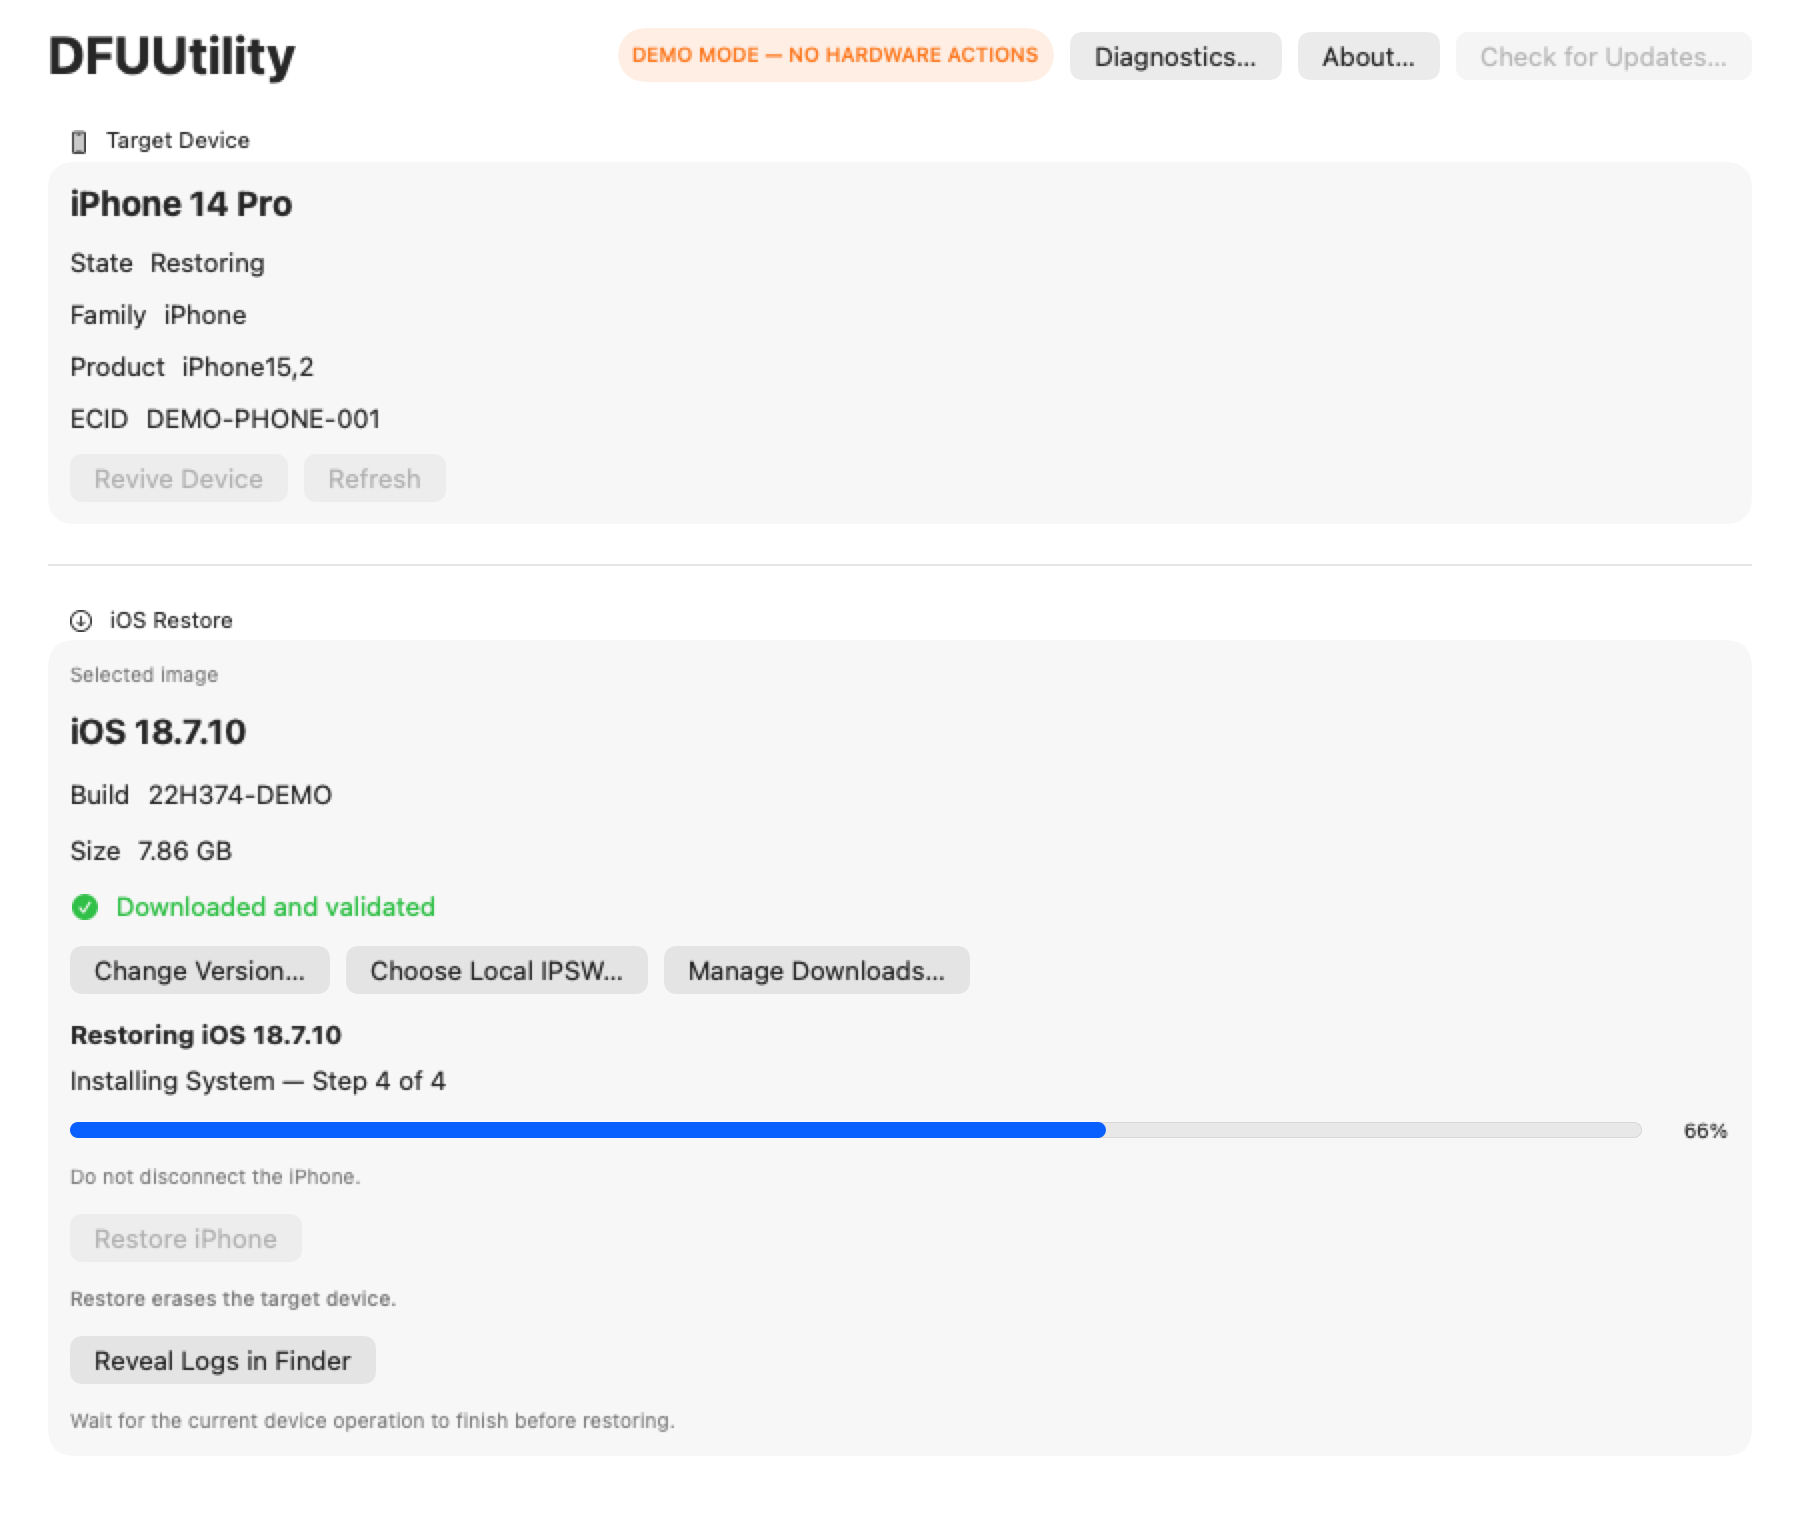
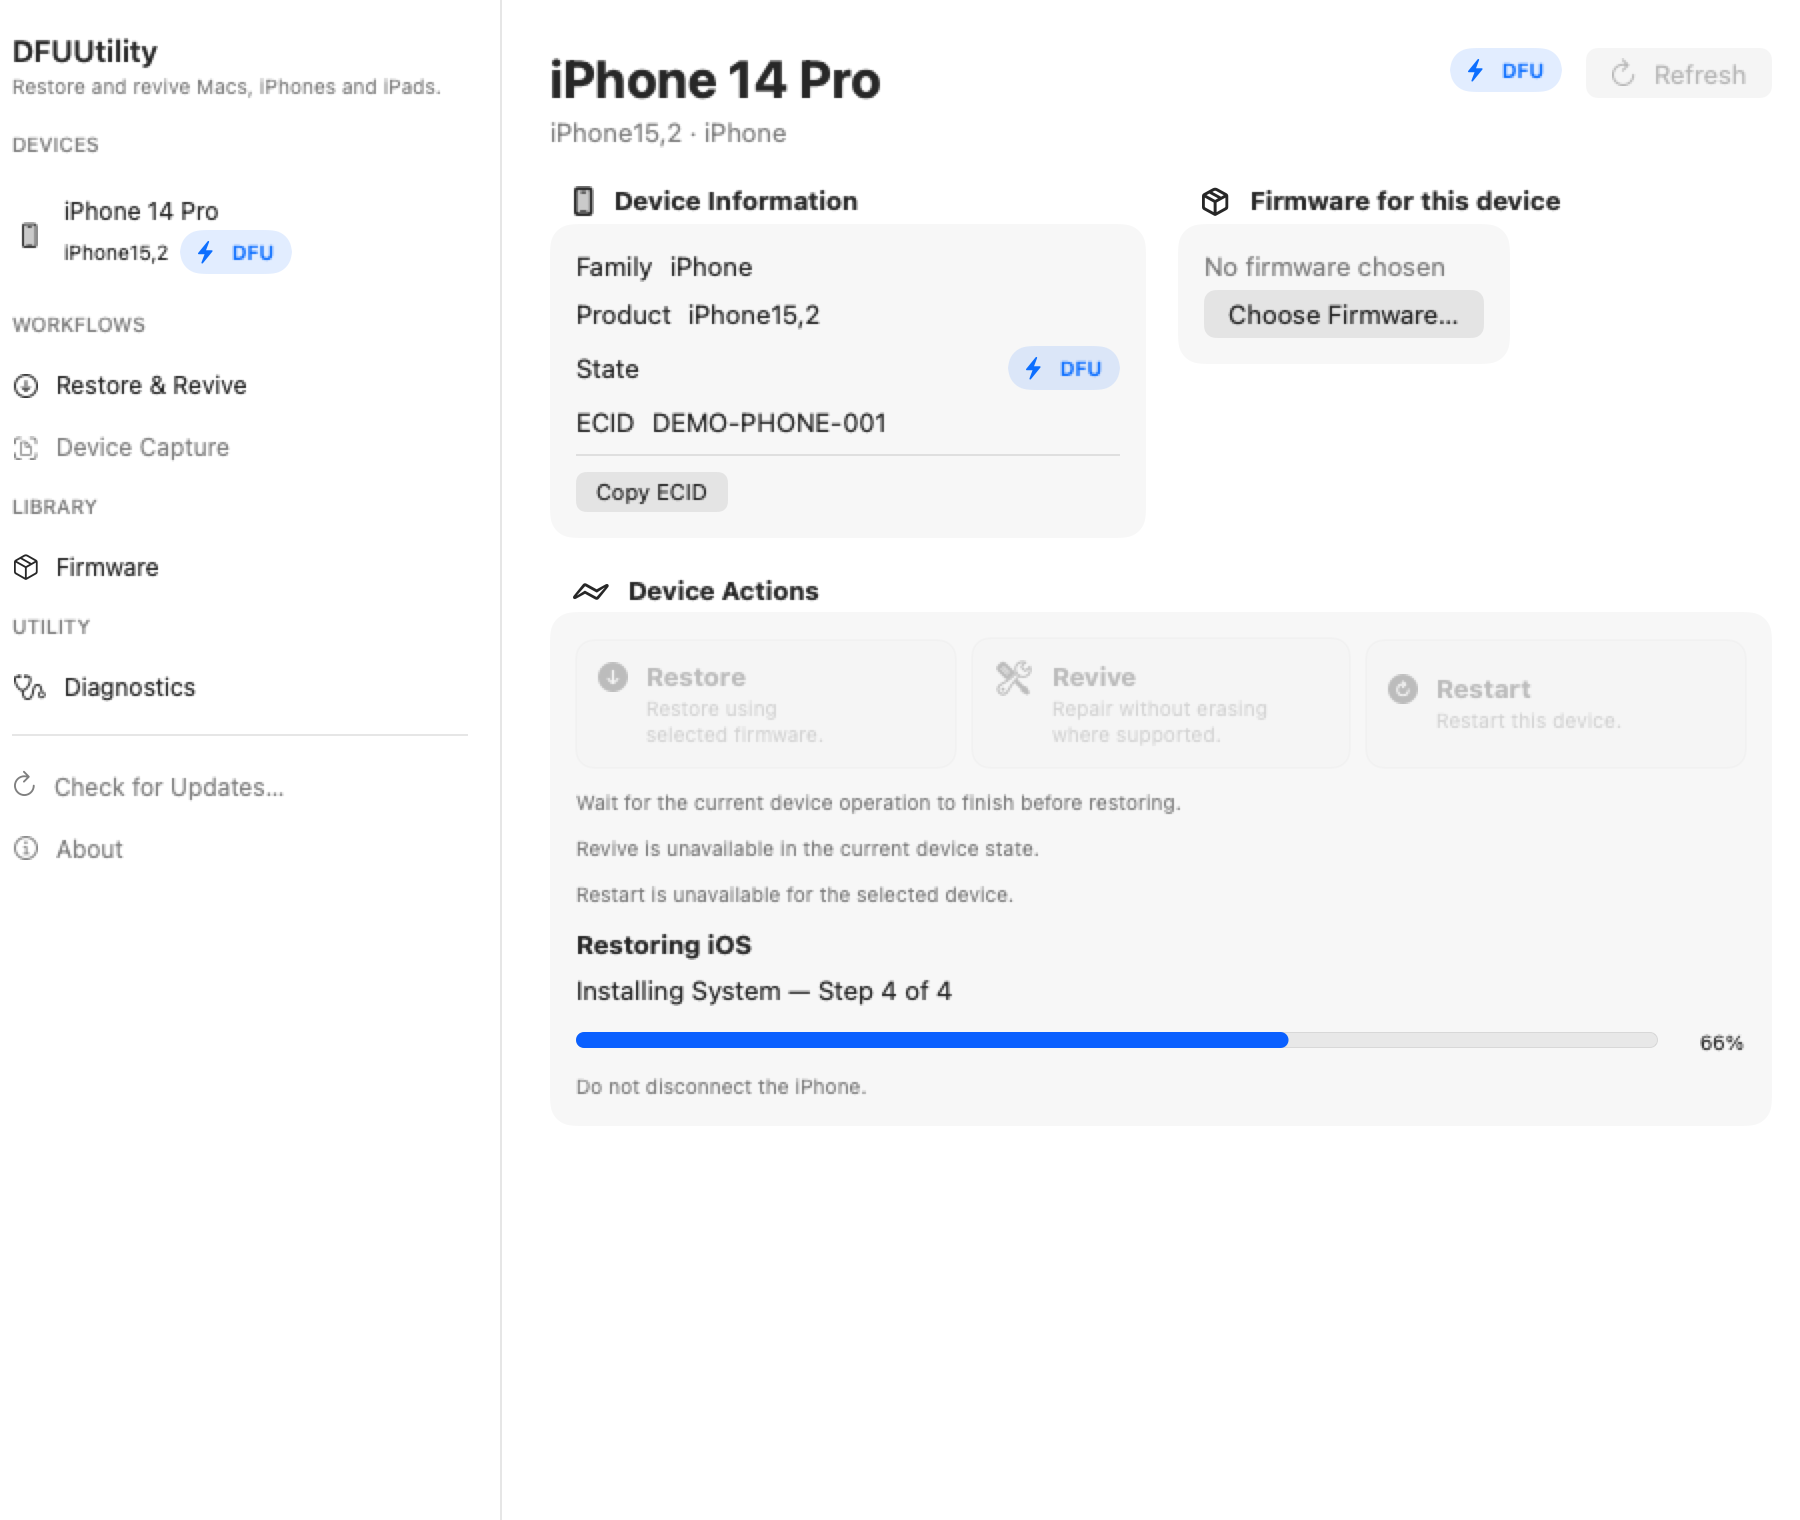
Prepare DFUUtility 0.9.0 Community release

diff --git a/Tests/DFUCoreTests/DFUCoreTests.swift b/Tests/DFUCoreTests/DFUCoreTests.swift
@@ -745,10 +745,10 @@ private final class SequencedDiscovery: @unchecked Sendable, DeviceDiscovering {
 }
 
 @Test func buildVersionAndDiagnosticsMetadataPropagate() throws {
-    #expect(BuildMetadata.displayVersion == "0.7.0 (1)")
+    #expect(BuildMetadata.displayVersion == "0.9.0 (1)")
     #expect(BuildMetadata.helperProtocolVersion == 1)
     let text = AcceptanceDiagnostics.render(report: nil, privilegeMode: .signedHelper, helperState: .upgradeRequired(installedProtocol: 0), appURL: URL(fileURLWithPath: "/missing.app"))
-    #expect(text.contains("App version: 0.7.0 (1)")); #expect(text.contains("Responding — upgrade required")); #expect(text.contains("Required helper protocol: 1"))
+    #expect(text.contains("App version: 0.9.0 (1)")); #expect(text.contains("Responding — upgrade required")); #expect(text.contains("Required helper protocol: 1"))
     #expect(text.contains("Helper registration signing: Unsupported"))
 }
 
@@ -827,7 +827,7 @@ private func releaseLibrary(_ command: String) throws -> (Int32, String) {
 
 @Test func releaseCheckParsesVersionAndRejectsMalformedMetadata() throws {
     let root = URL(fileURLWithPath: #filePath).deletingLastPathComponent().deletingLastPathComponent().deletingLastPathComponent()
-    #expect(try releaseLibrary("validate_version_metadata \"\(root.appendingPathComponent("Config/Version.env").path)\"; metadata_value \"\(root.appendingPathComponent("Config/Version.env").path)\" MARKETING_VERSION").1 == "0.7.0")
+    #expect(try releaseLibrary("validate_version_metadata \"\(root.appendingPathComponent("Config/Version.env").path)\"; metadata_value \"\(root.appendingPathComponent("Config/Version.env").path)\" MARKETING_VERSION").1 == "0.9.0")
     let malformed = try temporaryDirectory().appendingPathComponent("Version.env"); try Data("MARKETING_VERSION=bad!\n".utf8).write(to: malformed)
     #expect(try releaseLibrary("validate_version_metadata \"\(malformed.path)\"").0 != 0)
     #expect(try releaseLibrary("metadata_value /definitely/missing MARKETING_VERSION").0 != 0)

diff --git a/Sources/DFUCore/BuildMetadata.generated.swift b/Sources/DFUCore/BuildMetadata.generated.swift
@@ -1,7 +1,7 @@
 // Generated by scripts/generate-build-metadata.sh from Config/Version.env.
 import Foundation
 public enum BuildMetadata {
-    public static let version = "0.7.0"
+    public static let version = "0.9.0"
     public static let build = "1"
     public static let helperProtocolVersion = 1
     public static let macVDMToolRevision = "b22ae51eb43a0e1daa21d41616ac899f28e7bf8a"

diff --git a/docs/RELEASE_NOTES_0.9.0.md b/docs/RELEASE_NOTES_0.9.0.md
@@ -1,0 +1,27 @@
+# DFUUtility 0.9.0 Community
+
+DFUUtility 0.9.0 is an operator-focused Community release for technician DFU benches. Community artifacts are locally built and ad-hoc signed; Apple Configurator remains required for discovery, Restore, and Revive.
+
+## Highlights
+
+- Reworked navigation around Restore & Revive, Device Capture, Firmware Library, Diagnostics, and About workspaces, with responsive sidebar/window behavior.
+- Added read-only Device Capture with automatic/manual capture, stable identifiers where providers expose them, exact-serial QR codes, CSV export, and optional asset tags.
+- Added independent macOS, iOS, and iPadOS Firmware Library browsing and clearer sequential batch Restore, Revive, and Restart presentation.
+- Improved Mac DFU transition verification: evidence-sensitive missing-VDM-reply handling can verify success only after fresh same-ECID DFU rediscovery, without retrying the command.
+- Added actionable updater guidance for missing or invalid Git source checkouts and dedicated-host accessory-readiness guidance without changing macOS security settings.
+- Preserved exact product compatibility, cache validation, explicit destructive-operation selection, and structured Restore/Revive progress.
+
+## Physical acceptance
+
+- MacBook Air M2 (`Mac14,2`): Normal/DFU discovery, automatic DFU, Restore, Revive, structured progress, and restart/reconnect passed.
+- Newer Apple Silicon MacBook (`Mac17,6`): discovery, automatic DFU, DFU rediscovery, macOS 26.6.2 / 25G83 Restore, structured progress, and restart to Normal passed. The tested machine required a documented port change; this is not a universal newer-Mac mapping.
+- iPhone 6 (`iPhone7,2`): end-to-end Restore workflow passed.
+- iPad (7th generation) Wi-Fi (`iPad7,11`): Normal/Recovery discovery, guided same-ECID DFU, firmware discovery/download/validation, and Recovery-mode Restore passed; detailed progress and restart verification remain pending.
+- Two simultaneous `iPad12,1` Recovery targets: exact compatible assignment and explicitly selected sequential Restore passed.
+- Device Capture was physically accepted on an iPhone Normal session with serial, ECID, UDID, and QR display. Provider identifier availability varies by family and state.
+
+These observations apply only to the named products and workflows. They do not claim universal Apple hardware coverage.
+
+## Distribution
+
+DFUUtility is distributed under the [Apache License 2.0](../LICENSE). Bundled upstream Asahi Linux `macvdmtool` retains its own Apache-2.0 license, copyright, attribution, and recorded upstream revision.

diff --git a/README.md b/README.md
@@ -4,7 +4,7 @@ DFUUtility is an open-source native macOS utility for entering supported Macs in
 
 ![DFUUtility multi-device workflow](docs/images/multiple-devices.png)
 
-Version 0.7.0 adds independent multi-device sessions, sequential batch operations, product-specific mobile firmware/cache handling, exact cached-firmware assignment, and improved Mac DFU diagnostics. Community builds are local and ad-hoc signed; no paid Apple Developer account is required.
+Version 0.9.0 is a Community release focused on technician workflows: task-based navigation, independent Firmware Library browsing, Device Capture with QR/CSV export, sequential batch operations, stronger Mac DFU transition verification, and safer updater/host-readiness guidance. Community builds are local and ad-hoc signed; no paid Apple Developer account is required.
 
 ## Features
 
@@ -194,7 +194,7 @@ Apple Configurator's `cfgutil` remains required for device discovery, Restore, a
 
 ## Contributing
 
-See [CONTRIBUTING.md](CONTRIBUTING.md) for focused development and privacy-safe issue reporting. See the [0.7.0 release notes](docs/RELEASE_NOTES_0.7.0.md) for this release and the [0.6.1 release notes](docs/RELEASE_NOTES_0.6.1.md) for the preceding patch.
+See [CONTRIBUTING.md](CONTRIBUTING.md) for focused development and privacy-safe issue reporting. See the [0.9.0 release notes](docs/RELEASE_NOTES_0.9.0.md) for this release and the [0.7.0 release notes](docs/RELEASE_NOTES_0.7.0.md) for the preceding milestone.
 
 ## License
 
